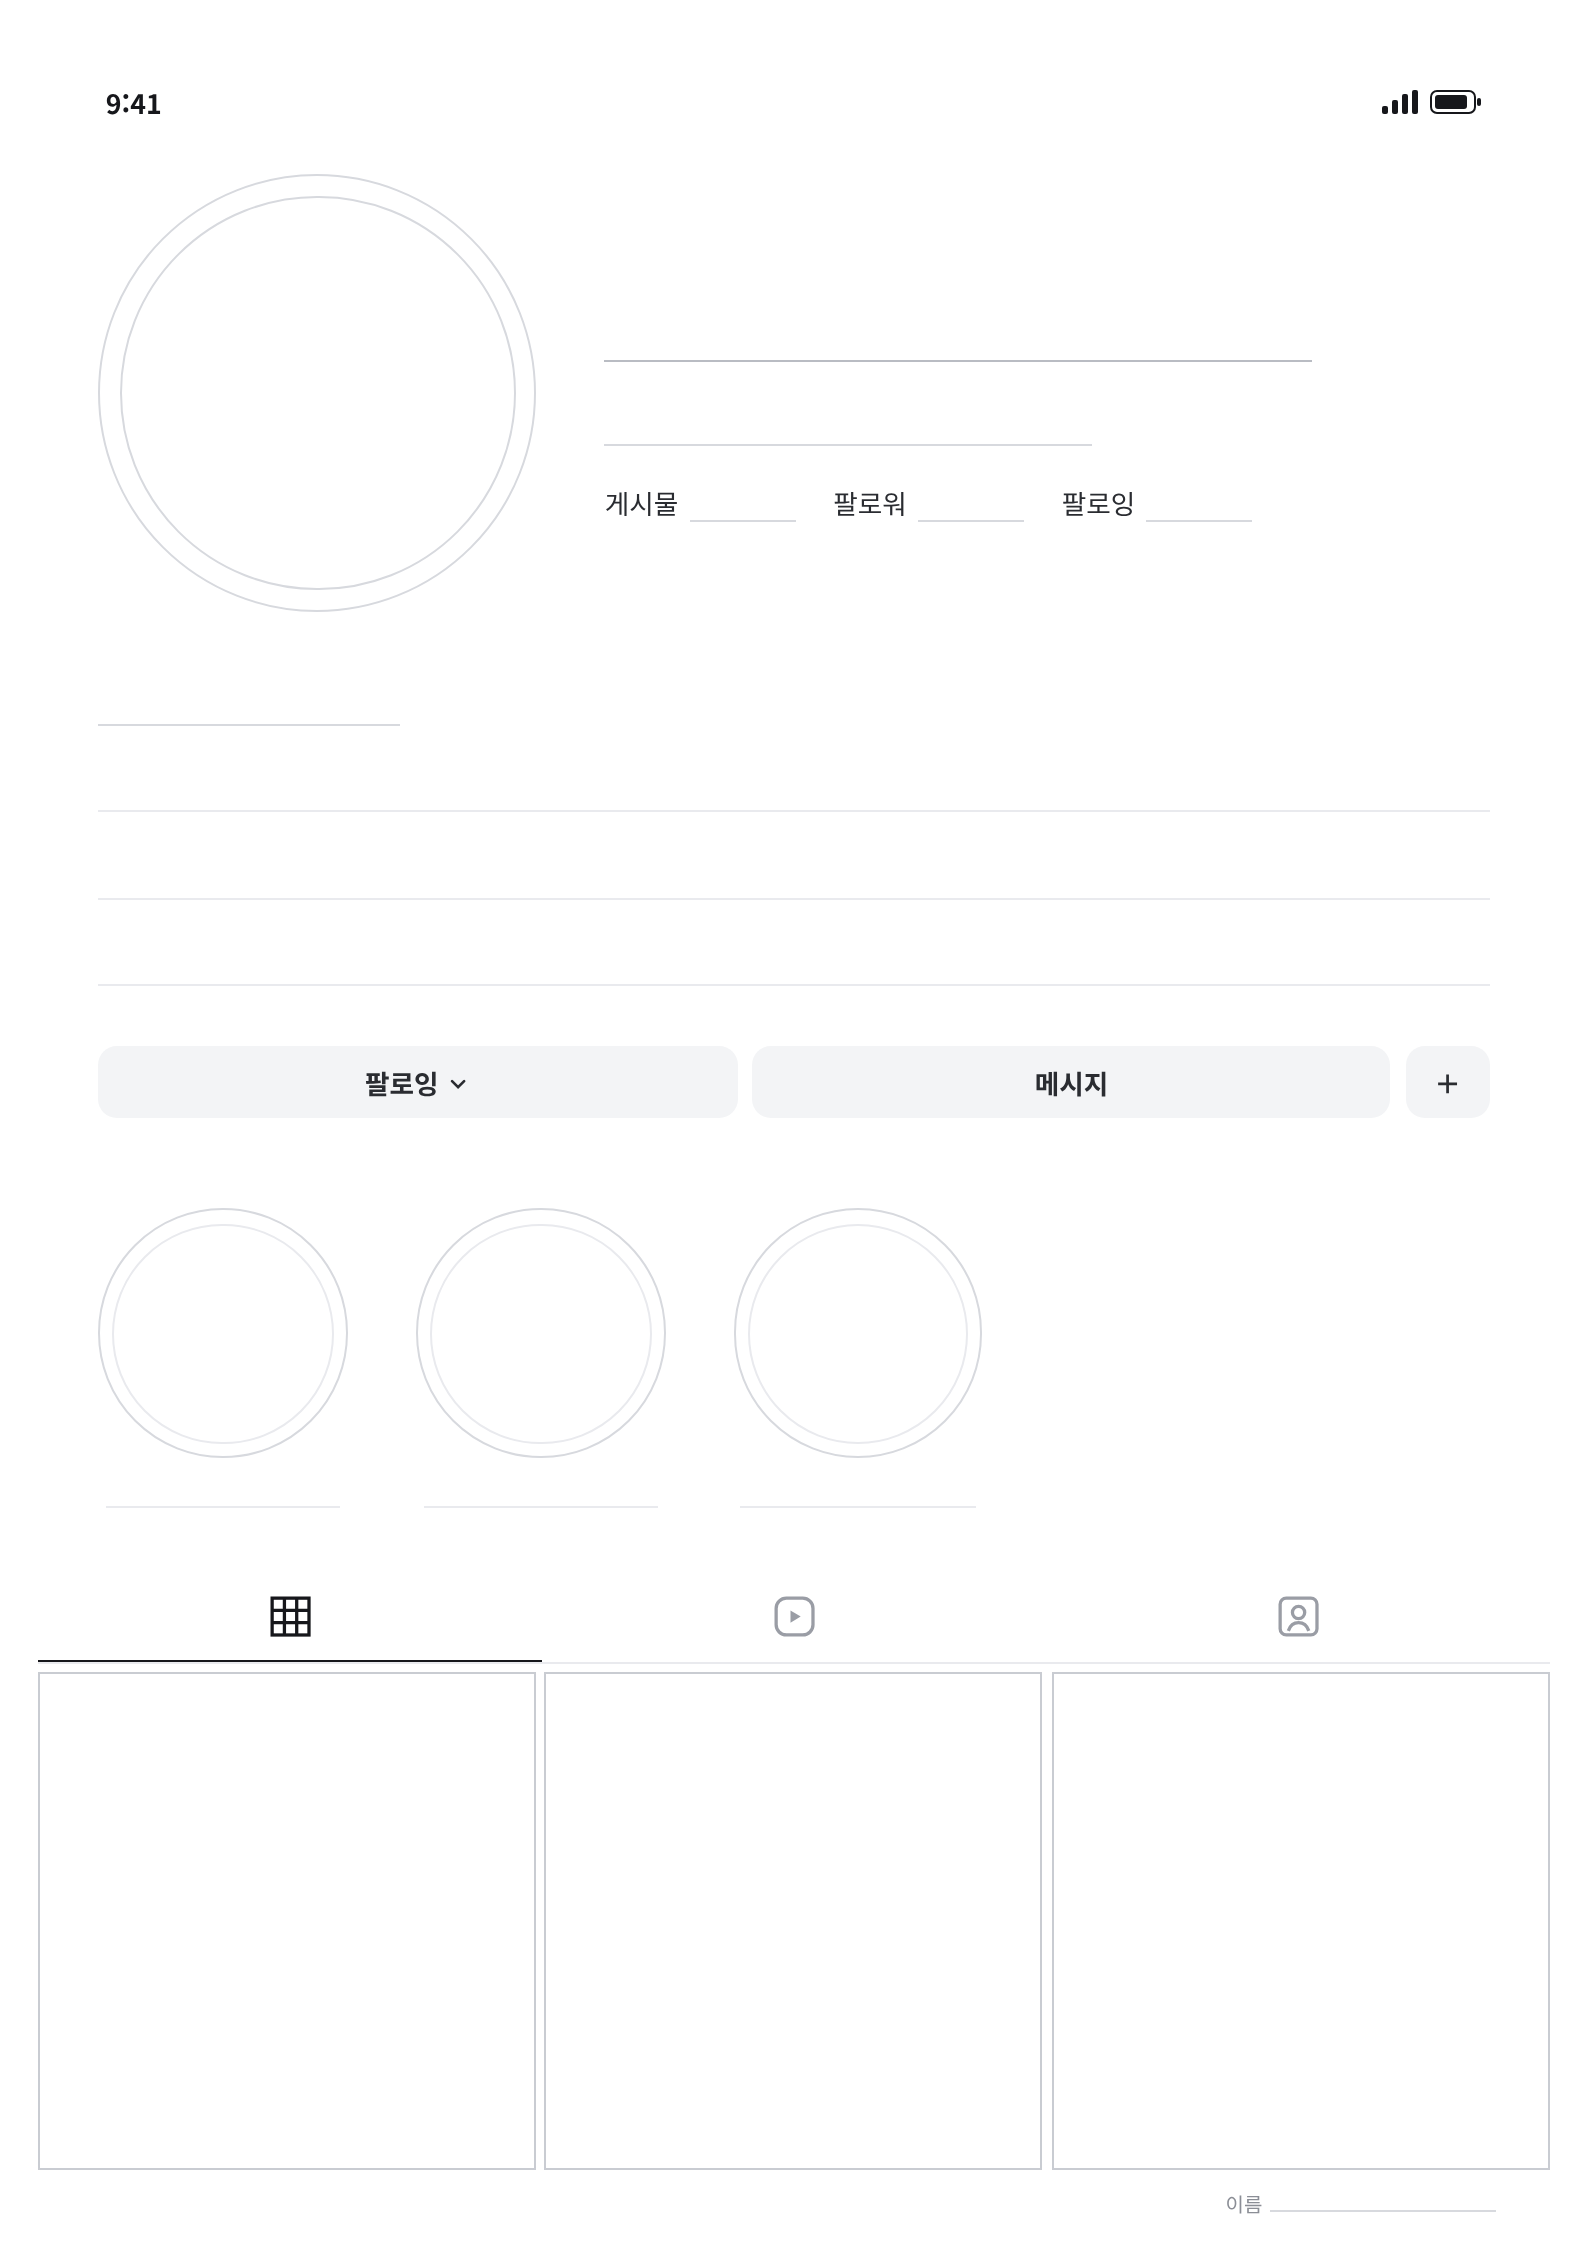
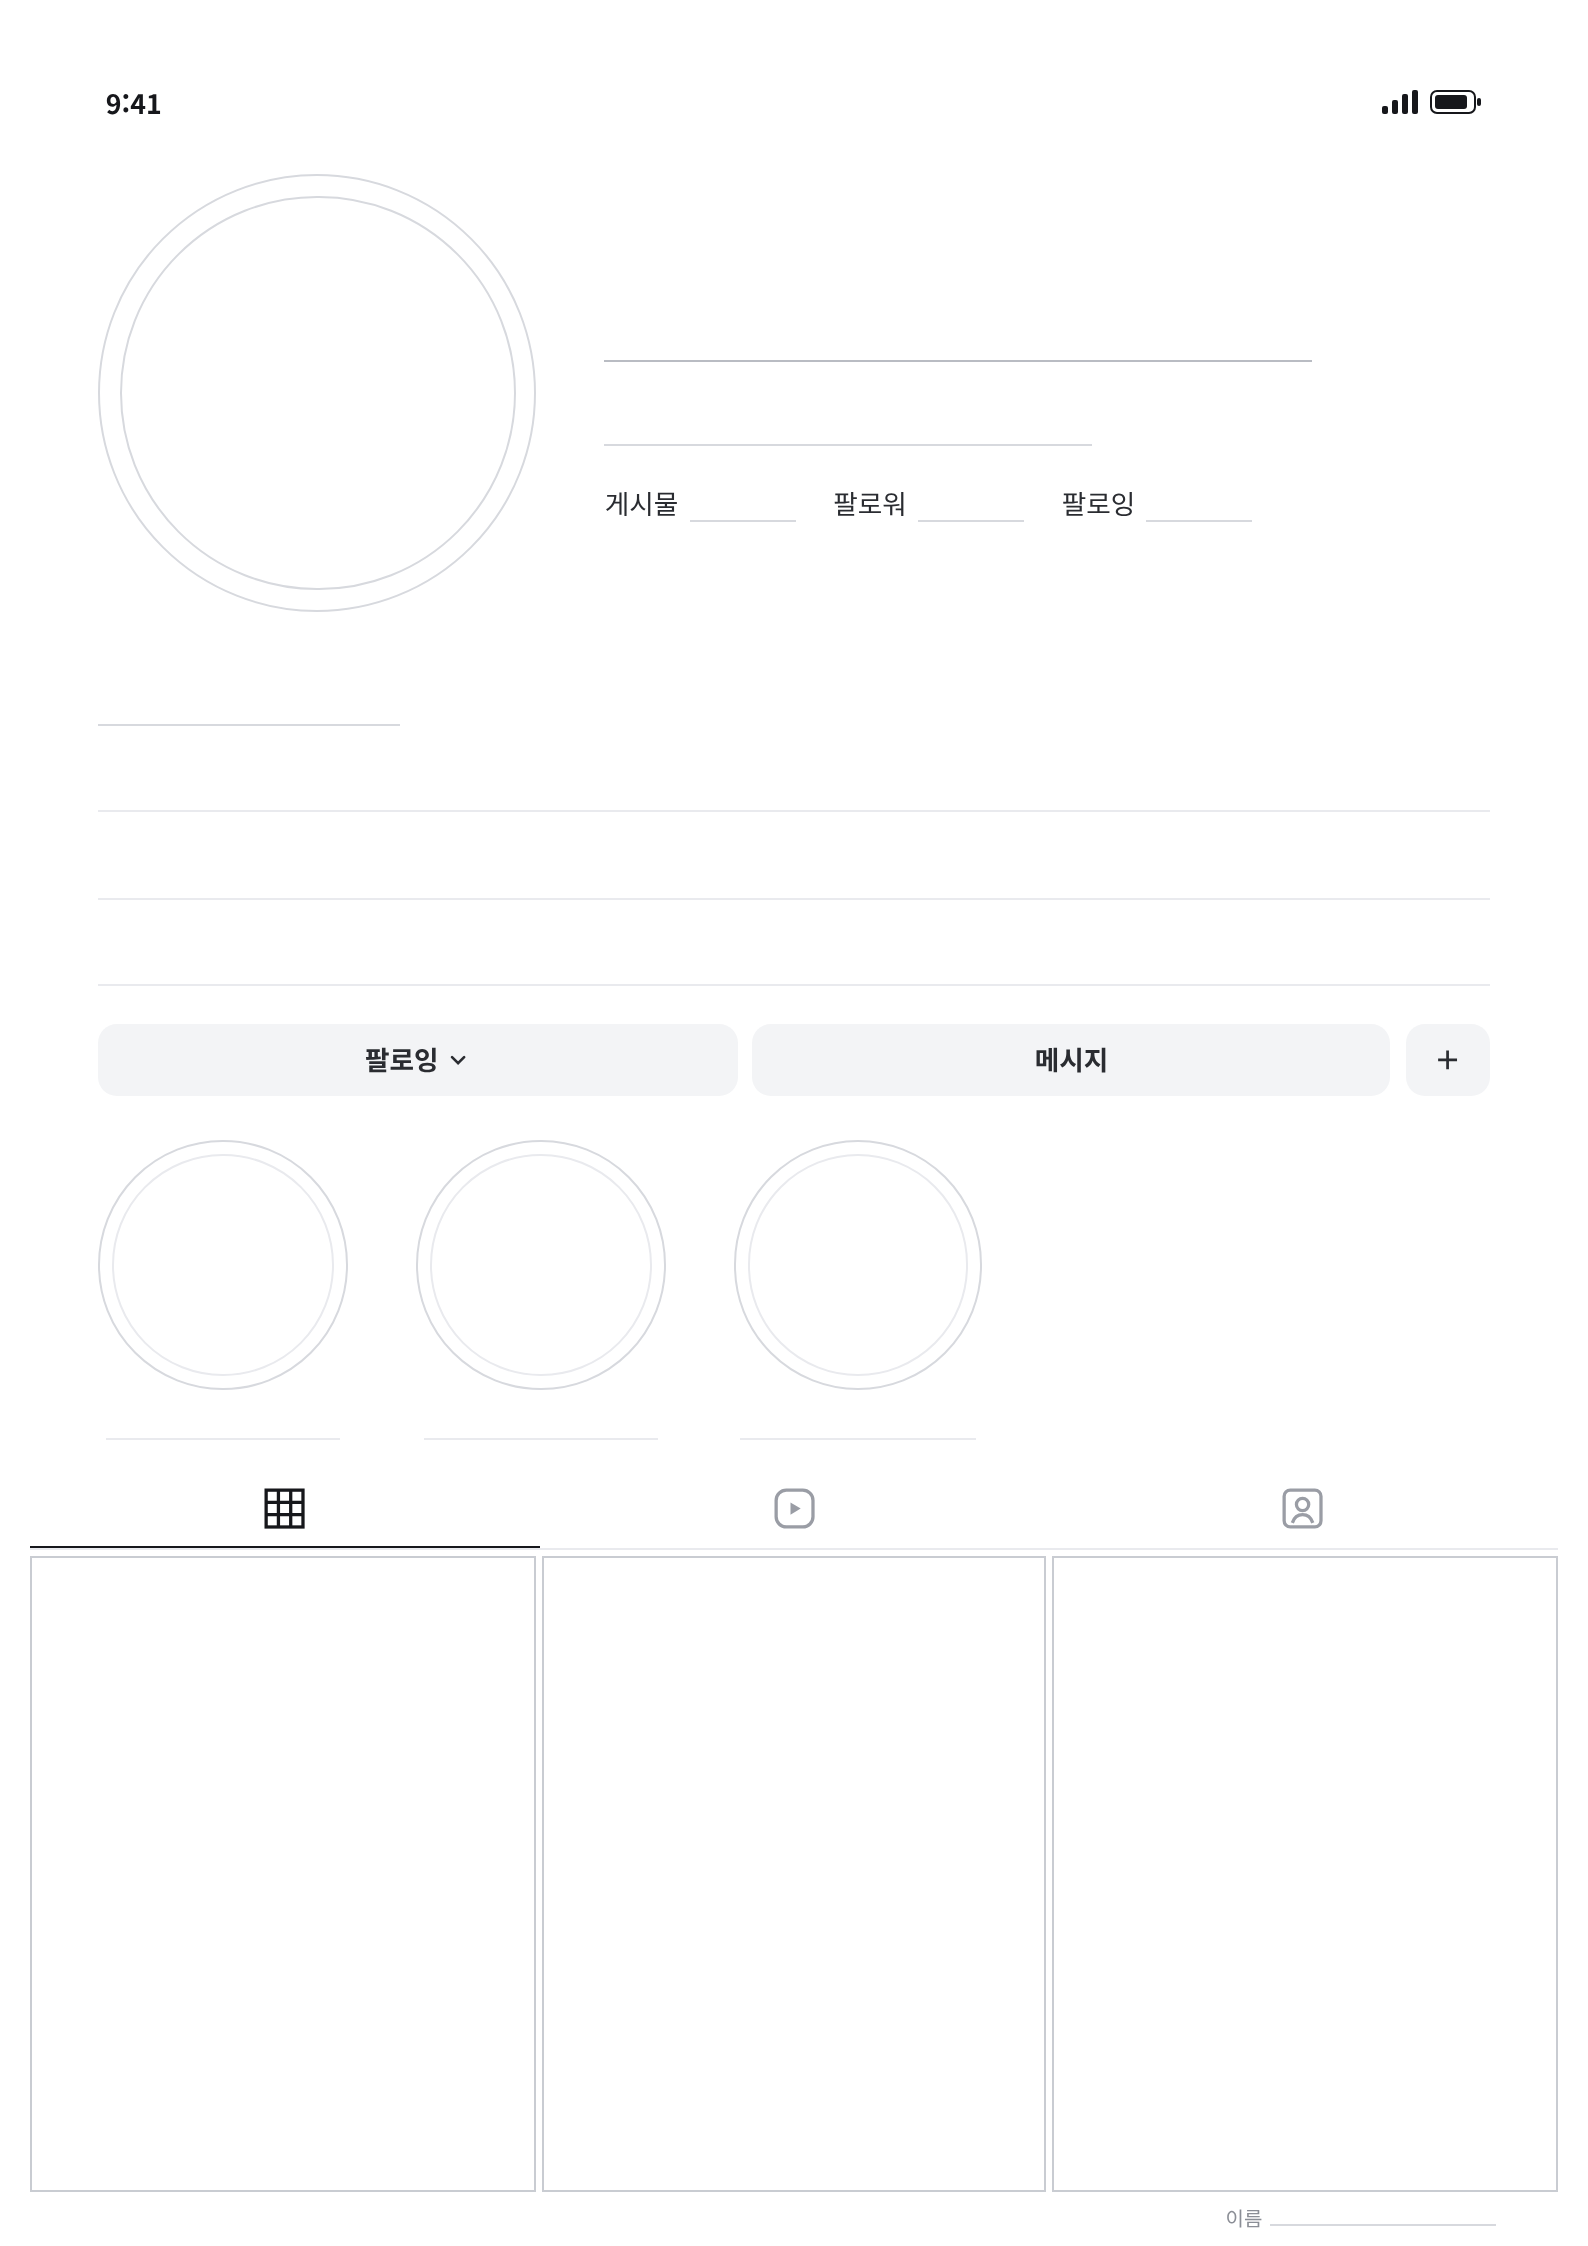
활동지 갱신: 피드 칸 확대(세로형), 직업 밑줄 반영
- images p1~p3 새 활동지로 교체
- 하이라이트·피드·스토리 강조 위치 조정
- 가장자리 칸의 라벨이 잘리지 않게 정렬

Claude-Session: https://claude.ai/code/session_01Lha3vopChsbLtcYxTFF1aS

diff --git a/index.html b/index.html
@@ -34,6 +34,7 @@ button:focus,button:focus-visible{outline:none}
 .spot .tag{position:absolute;left:50%;bottom:calc(100% + 12px);transform:translateX(-50%);white-space:nowrap;font-size:14px;font-weight:700;color:#fff;
   background:linear-gradient(90deg,#fa7e1e,#d62976,#962fbf);padding:5px 13px;border-radius:999px;box-shadow:0 6px 18px rgba(150,47,191,.3)}
 .spot.below .tag{bottom:auto;top:calc(100% + 12px)}
+.spot.tl .tag{left:6px;transform:none}.spot.tr .tag{left:auto;right:6px;transform:none}
 
 .dots{display:flex;gap:8px;align-items:center}
 .dots button{font-size:13px;font-weight:700;color:var(--sub);padding:5px 12px;border-radius:999px;background:#f1f2f5;transition:all .3s}
@@ -105,24 +106,24 @@ const CONFIG = {
     { page:1, label:"소개 세 줄", box:{x:5.4,y:31.9,w:89.2,h:12.6},
       kick:"소개", title:"캐릭터가 자기를 소개하는 세 줄",
       points:["<b>소속, 성격, 좋아하는 것, 말버릇</b>을 한 줄씩", "글은 모두 <b>캐릭터의 말투</b>로", "이모지·해시태그도 좋음"] },
-    { page:1, label:"스토리 하이라이트 (선택)", box:{x:5,y:49.3,w:90,h:18.3},
+    { page:1, label:"스토리 하이라이트 (선택)", box:{x:5,y:48.3,w:90,h:16.3},
       kick:"하이라이트 · 선택", title:"프로필에 고정해 두는 이야기",
       points:["<b>0~3개</b>, 만들지 말지 스스로 정함", "동그라미에 표지 그림, 아래에 <b>짧은 제목</b>", "안 만들면 비워 둬도 됨"],
       ex:"🧡랑아🧡 / 🤍호야🤍 / 💛은향이💛, 대길이 아끼는 가족" },
-    { page:1, label:"피드 첫 칸 · 세계관 속 캐릭터의 역할", box:{x:2.38,y:74.46,w:31.37,h:22.18},
+    { page:1, label:"피드 첫 칸 · 세계관 속 캐릭터의 역할", box:{x:1.9,y:69.31,w:31.81,h:28.34},
       kick:"피드 첫 칸 · 필수", title:"세계관 속 캐릭터의 역할",
       points:["첫 칸은 꼭 <b>역할</b>이 보이는 그림", "직업·소속뿐 아니라 이야기 속 <b>기능</b>(주인공의 조력자, 메인 빌런, 라이벌 등)도 역할", "그림만 봐도 역할이 보이게"],
       ex:"가족을 지키는 가장" },
-    { page:1, label:"피드 2·3칸 · 자유 주제", box:{x:34.32,y:74.46,w:63.31,h:22.18},
+    { page:1, label:"피드 2·3칸 · 자유 주제", box:{x:34.09,y:69.31,w:64,h:28.34},
       kick:"피드 2·3칸", title:"자유 주제",
       points:["캐릭터가 <b>직접 올렸을 법한</b> 사진 두 장", "작품 속 <b>기억에 남는 장면</b>을 게시물로 바꿔도 좋음", "세 칸을 이어 보면 하나의 이야기가 되게"],
       ex:"이사 온 날 · 결혼식" },
     { page:2, kick:"SNS 프로필 활동지 · 2쪽", title:"스토리 2개",
       points:["주제: <b>내 캐릭터는 여가 시간에 무엇을 하고 있을까?</b>", "그 순간을 한 장씩 그리고 <b>글 한 줄</b>과 스티커", "막히면 소지품·OOTD, 한 순간, 기분 한 장, 질문 스티커, 비포&애프터 중에서 골라 보기"] },
-    { page:2, label:"스토리 1", box:{x:5.71,y:22.01,w:42.86,h:53.87},
+    { page:2, label:"스토리 1", box:{x:5.71,y:22.52,w:42.86,h:53.87},
       kick:"스토리 1", title:"여가 시간의 한 장면",
       points:["위쪽 작은 동그라미에 <b>프로필 얼굴</b>, 옆 줄에 <b>아이디</b>", "화면 위에 캐릭터가 쓴 <b>글 한 줄</b>", "투표·질문·이모지 <b>스티커</b>를 붙이듯 그림"] },
-    { page:2, label:"공개 범위 · 고리 색", box:{x:5.71,y:22.01,w:88.58,h:53.87},
+    { page:2, label:"공개 범위 · 고리 색", box:{x:5.71,y:22.52,w:88.58,h:53.87},
       kick:"공개 범위", title:"누구에게 보여 줄까?",
       points:["<span class='sw all'></span><b>전체공개</b>: 고리를 빨강·주황·보라 계열로. 누구에게 보여도 괜찮은 모습", "<span class='sw cf'></span><b>친한친구</b>: 고리를 초록으로. 속마음, 숨은 모습", "2개를 어떻게 나눌지도 <b>캐릭터 해석</b>"],
       ex:"스토리 5개 중 마지막 하나만 <span class='sw cf'></span>친한친구" },
@@ -154,6 +155,7 @@ function go(i){
   if(s.box){
     Object.assign(sp.style,{left:s.box.x+'%',top:s.box.y+'%',width:s.box.w+'%',height:s.box.h+'%'});
     sp.classList.toggle('round',!!s.round); sp.classList.toggle('below',!!s.below||s.box.y<10);
+    const c=s.box.x+s.box.w/2; sp.classList.toggle('tl',c<22); sp.classList.toggle('tr',c>78);
     $('tag').textContent=s.label; sp.classList.add('on');
   } else sp.classList.remove('on');
   document.querySelectorAll('#dots [data-p]').forEach(b=>b.classList.toggle('on',+b.dataset.p===s.page));
